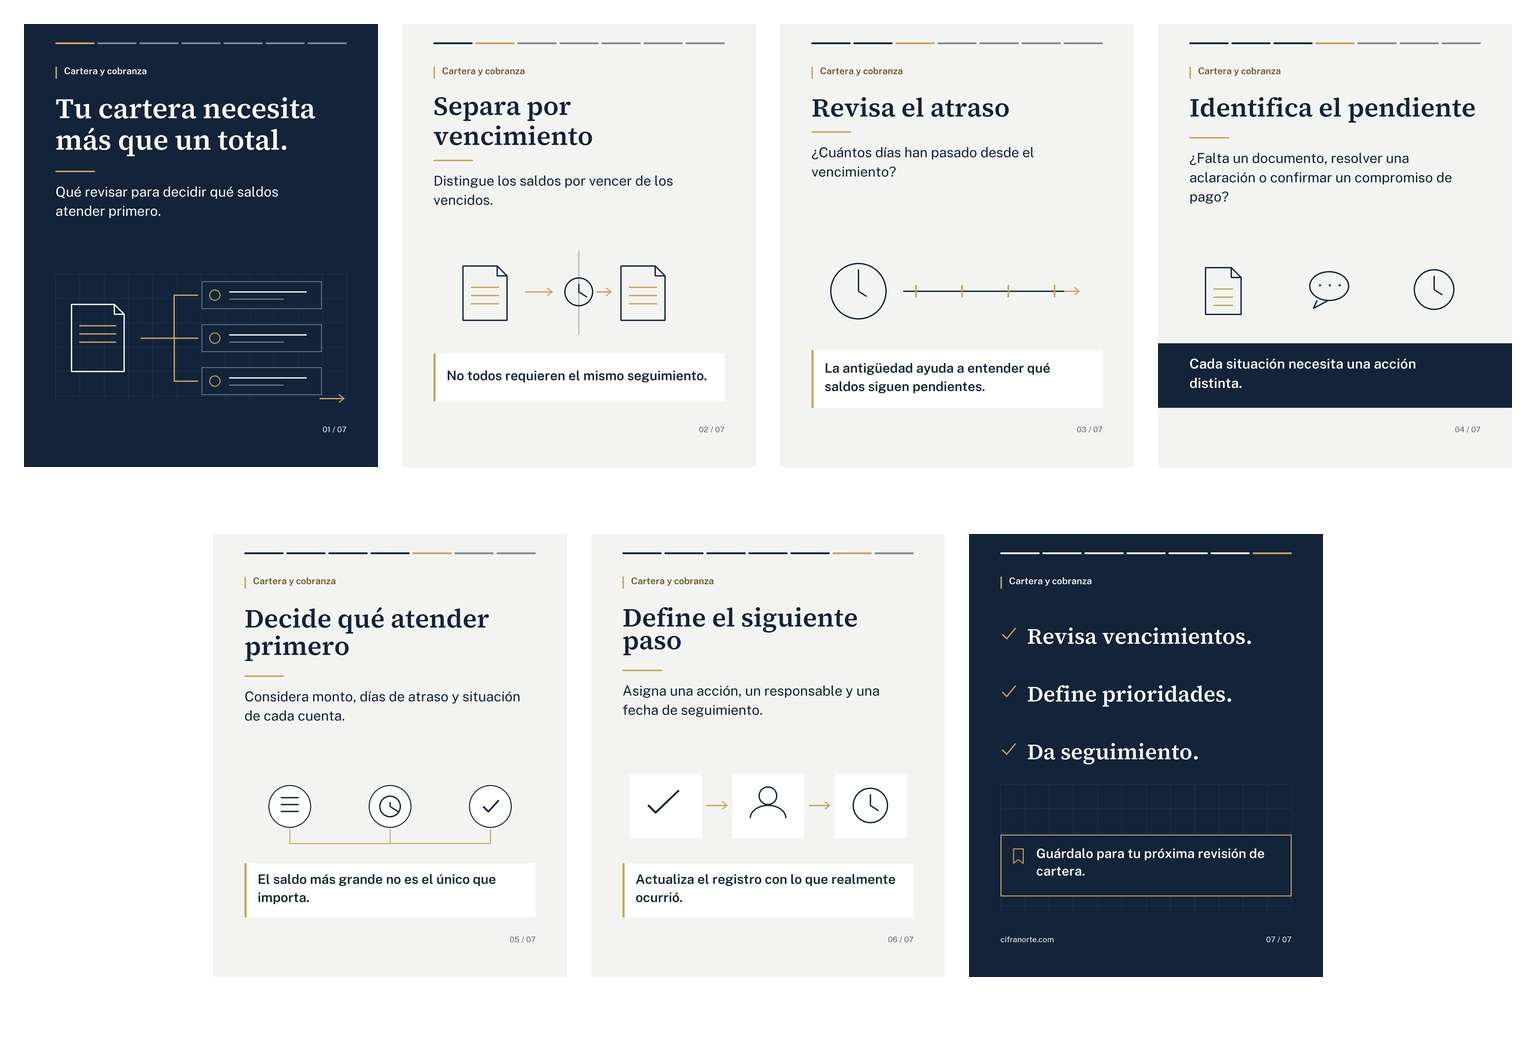
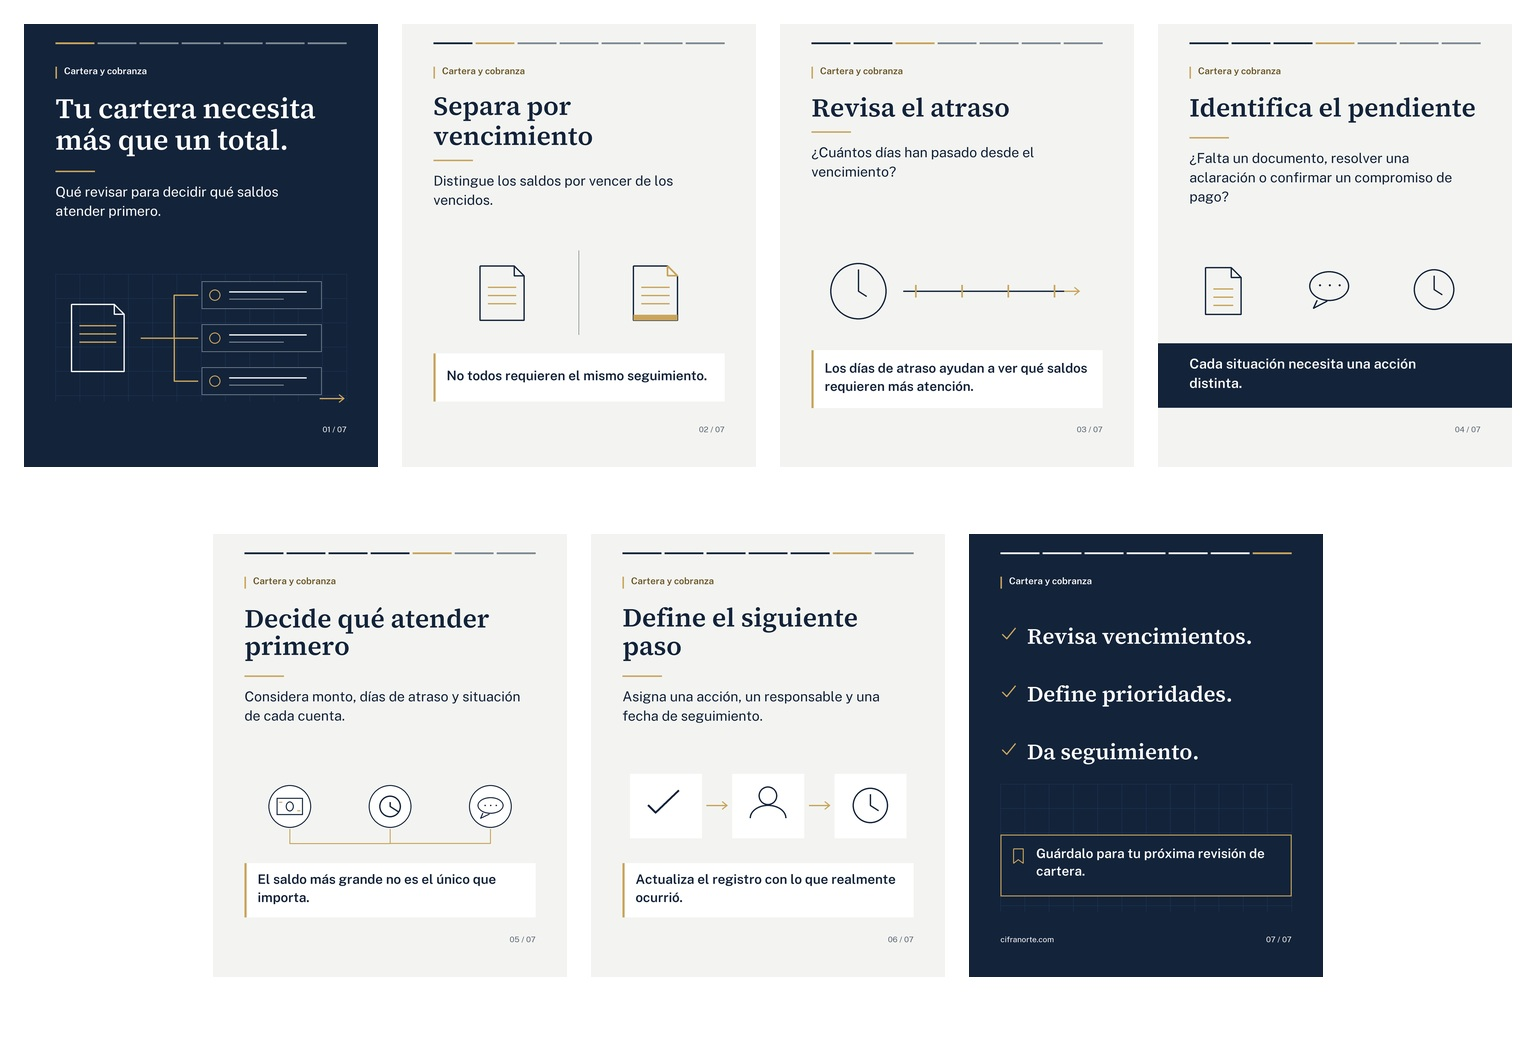
IM03: corregir diseño N1-N3 y aplicar tres mejoras de texto autorizadas

diff --git a/publicaciones/2026-10-12_instagram_IM03/REVISION.md b/publicaciones/2026-10-12_instagram_IM03/REVISION.md
@@ -71,3 +71,14 @@ ChatGPT aplica N1 a N3 (y las O de diseño que considere) conservando los textos
 
 - Archivo en UTF-8, sin caracteres dañados (U+FFFD).
 - No se programó ni publicó nada. IM01 e IM02 sin cambios. Facebook IM03 sigue pendiente de producción.
+
+
+## Correcciones de ChatGPT — 7 de octubre de 2026
+
+- N1 aplicada en lámina 2: retiradas flechas y reloj central; separación vertical y documentos diferenciados con esquina y banda doradas en el vencido. Sin rótulos nuevos.
+- N2 aplicada en lámina 5: billete sin cifras para monto y diálogo para situación; reloj y conector conservados.
+- N3 aplicada en lámina 6: compensación óptica de interlineado por descendentes de g/p; línea dorada conserva 44 px respecto al título.
+- Hugo autorizó O4: nota de lámina 3 «Los días de atraso ayudan a ver qué saldos requieren más atención.». Texto aprobado actualizado.
+- O5 no aplicada por elección de Hugo; nota de lámina 6 conservada. O1–O3 de diseño no aplicadas.
+- Copy de Instagram intacto. Dictamen íntegro conservado. Láminas modificadas y vista conjunta revisadas; fuentes oficiales, márgenes y fidelidad textual comprobados.
+- Claude: comprobar brevemente N1, N2, N3 y O4 en el nuevo commit y registrar aquí el resultado. Aprobación final de Hugo pendiente; sin programación.

diff --git a/publicaciones/2026-10-11_linkedin_IM03/REVISION.md b/publicaciones/2026-10-11_linkedin_IM03/REVISION.md
@@ -47,3 +47,8 @@ Ninguna.
 
 - Archivo en UTF-8, sin caracteres dañados (U+FFFD).
 - No se programó ni publicó nada. IM01 e IM02 sin cambios.
+
+
+## Ajustes autorizados por Hugo — 7 de octubre de 2026
+
+Hugo autorizó O1 y O2: «¿Qué falta para poder cobrar?» y «“Me deben” todavía no es suficiente información para decidir.». Aplicados; resto del copy intacto. Dictamen íntegro conservado. Claude: comprobar brevemente O1 y O2 en el nuevo commit. Aprobación final de Hugo pendiente. No programado.
